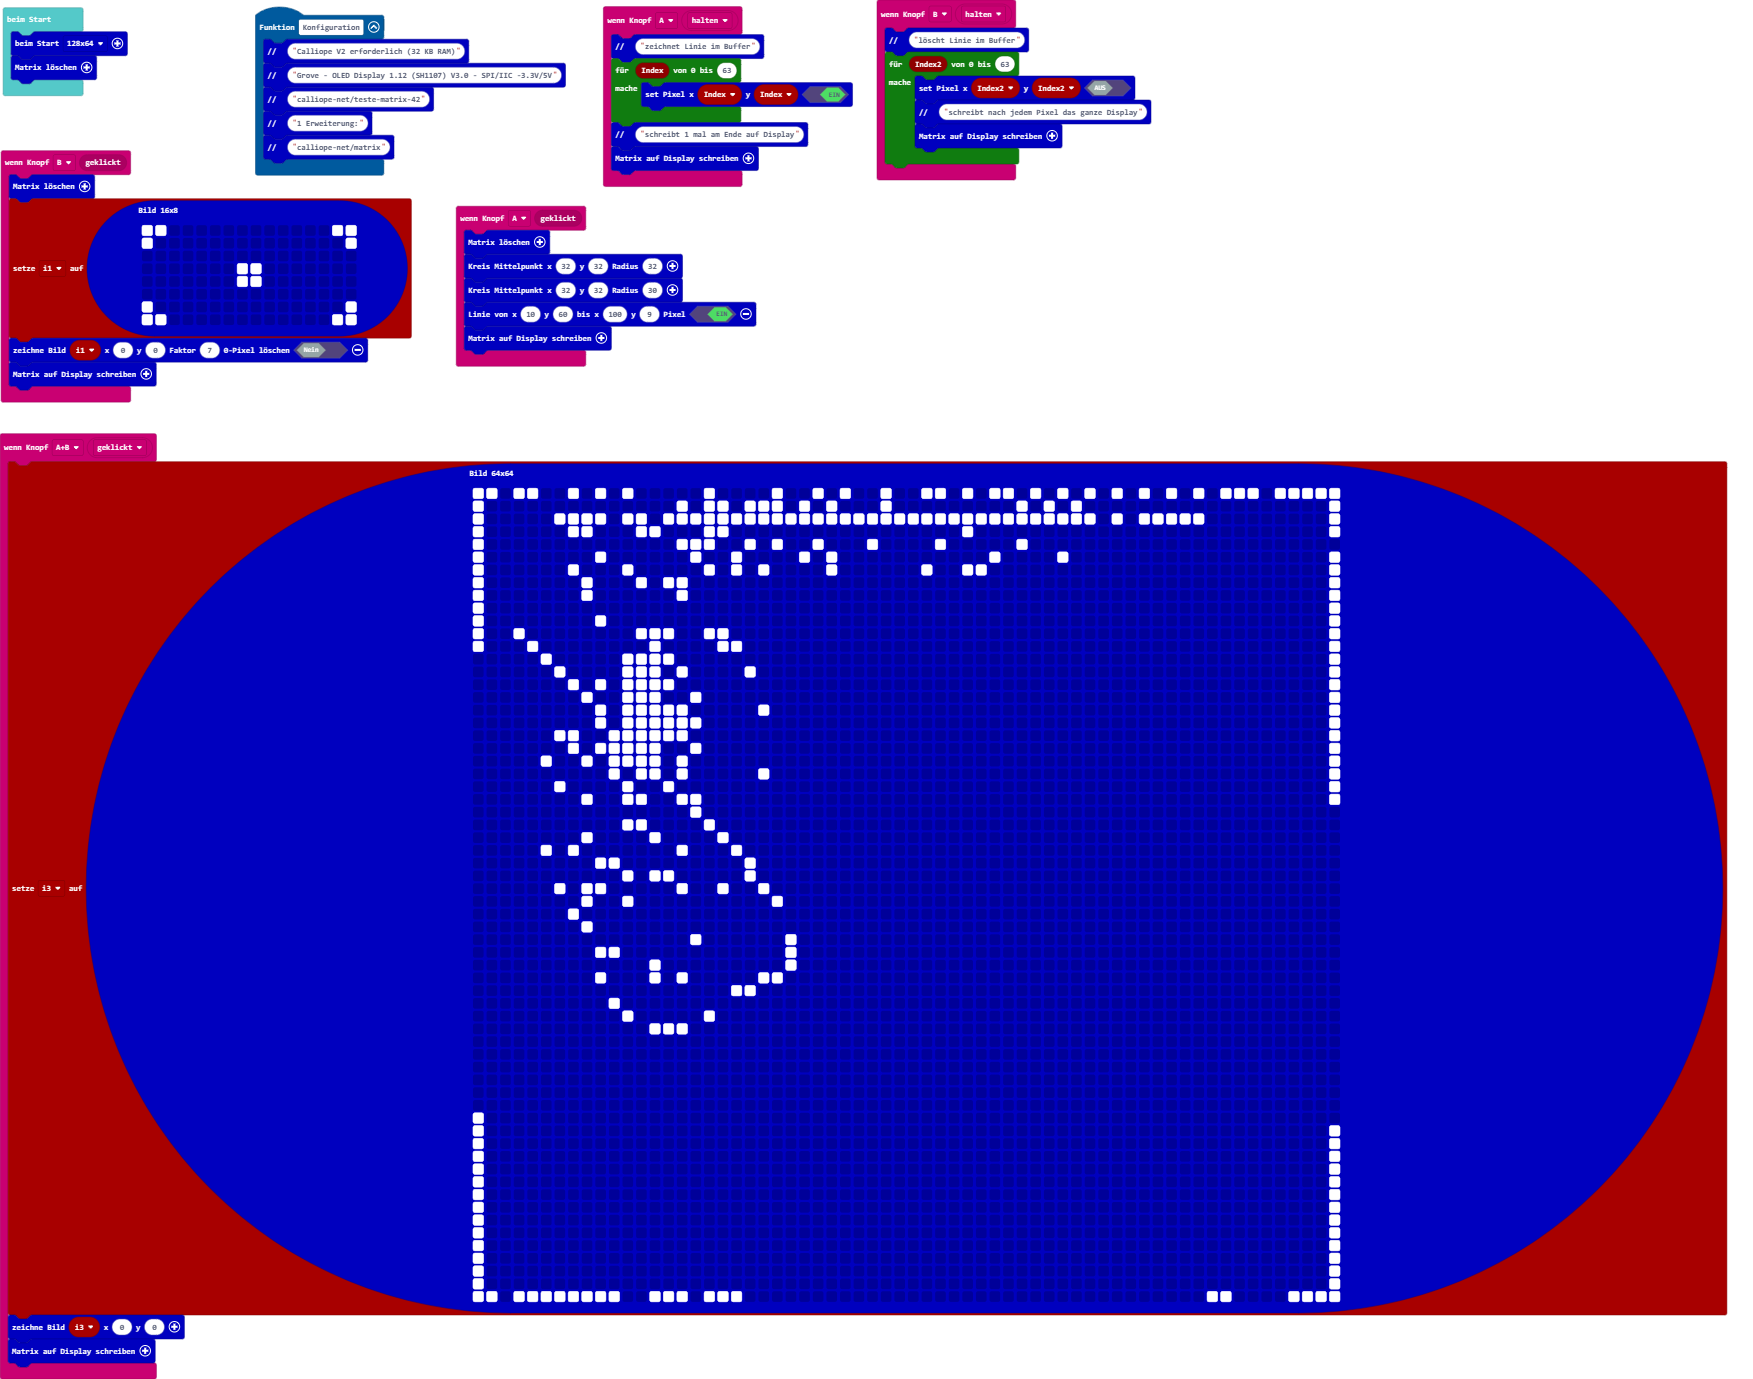
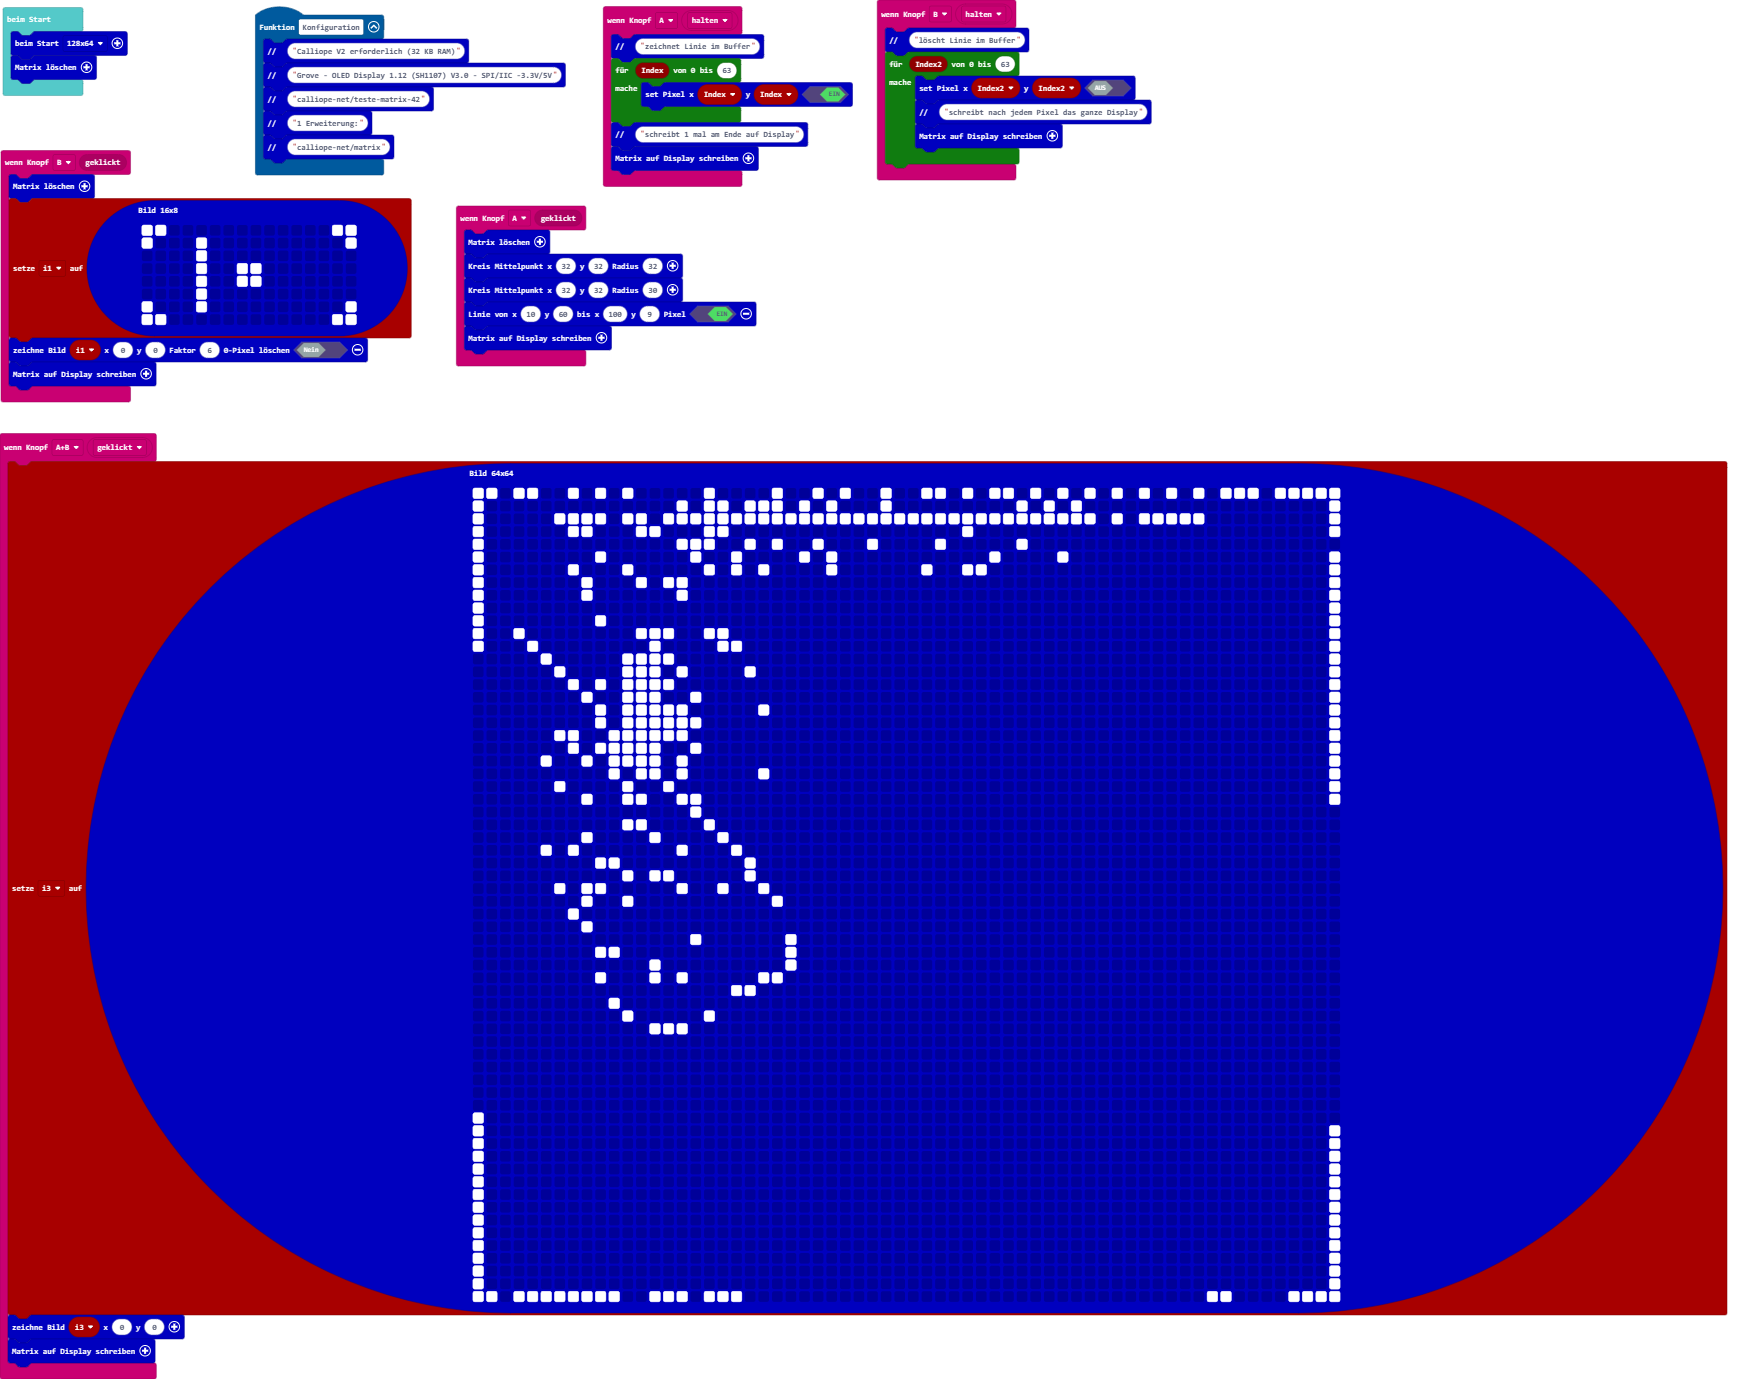
Aktualisiere pxt.json, main.blocks, main.ts

diff --git a/main.ts b/main.ts
@@ -79,15 +79,15 @@ input.onButtonEvent(Button.B, input.buttonEventClick(), function () {
     matrix.clearMatrix()
     i1 = matrix.matrix16x8(`
         # # . . . . . . . . . . . . # #
-        # . . . . . . . . . . . . . . #
-        . . . . . . . . . . . . . . . .
-        . . . . . . . # # . . . . . . .
-        . . . . . . . # # . . . . . . .
-        . . . . . . . . . . . . . . . .
-        # . . . . . . . . . . . . . . #
+        # . . . # . . . . . . . . . . #
+        . . . . # . . . . . . . . . . .
+        . . . . # . . # # . . . . . . .
+        . . . . # . . # # . . . . . . .
+        . . . . # . . . . . . . . . . .
+        # . . . # . . . . . . . . . . #
         # # . . . . . . . . . . . . # #
         `)
-    matrix.writeImage(i1, 0, 0, 7, false)
+    matrix.writeImage(i1, 0, 0, 6, false)
     matrix.writeDisplay()
 })
 input.onButtonEvent(Button.A, ButtonEvent.Hold, function () {
